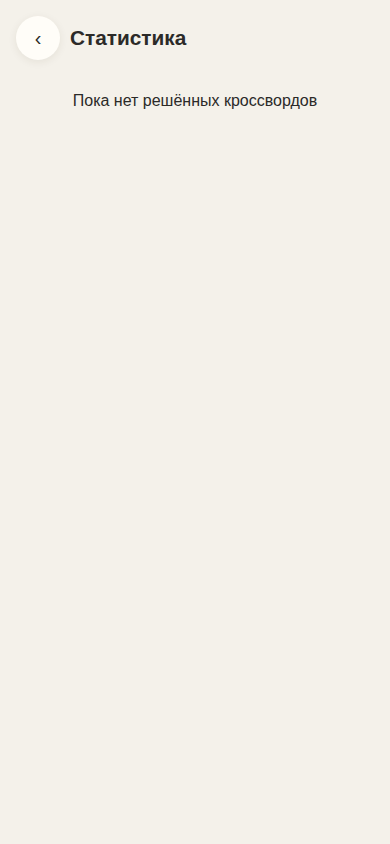
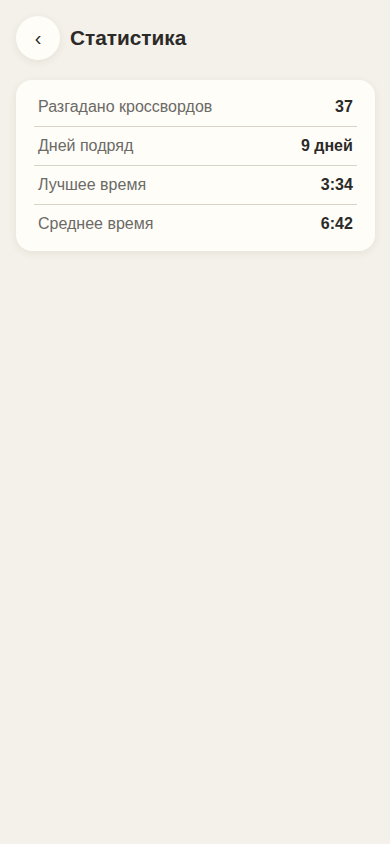
Материалы карточки: единое название, версия 1.1.0, живой скриншот статистики
Сверка полей консоли с реальным состоянием игры нашла расхождения:

- Название. CARD.md заявлял «Кроссворды — уникальные каждый раз», тогда как
  в поле Title гайда, в <title> страницы, на экране меню и — что важнее всего —
  ТЕКСТОМ НА ОБЛОЖКЕ стоит «Кроссворды». Площадка требует дословного совпадения
  названия во всех материалах, так что приписка привела бы к расхождению с
  графикой. Название приведено к «Кроссворды», в оба файла добавлено пояснение,
  почему уточнения сюда добавлять нельзя.
- Примечание в гайде утверждало, что названия нет ни на одной картинке. Это
  неверно: оно написано на обложке. Формулировка исправлена, заодно оговорено,
  что подзаголовок обложки — слоган, а не часть названия.
- Скриншот статистики выродился в пустой экран «Пока нет решённых кроссвордов»
  (генерировался в чистом профиле браузера). Перегенерирован с накопленными
  данными — так экран и выглядит у игрока.
- Версия поднята до 1.1.0 (набор изменений прошлой итерации), гайд синхронизирован.
- Заявленный вес сборки ~110 КБ обновлён до фактических ~175 КБ.
- Убрано устаревшее упоминание «english-версий» текстов в CARD.md — от
  английской версии отказались ещё раньше.
- Описания скриншотов дополнены новыми элементами интерфейса (счётчик слов,
  буква, открытая подсказкой, зачёркнутые отгаданные определения).

Claude-Session: https://claude.ai/code/session_016ab2bpeRLzr7HiPFMCcyki

Changed region(s): [[0.0923, 0.0924, 0.9231, 0.2773]]

diff --git a/store/YANDEX_SUBMISSION_GUIDE.md b/store/YANDEX_SUBMISSION_GUIDE.md
@@ -21,7 +21,7 @@
 |---|---|
 | `index.html` строго в корне архива | ✅ `vite.config.js` (`assetsDir: ''`) кладёт всё в корень `dist/` |
 | Имена файлов/папок без пробелов и кириллицы | ✅ хэшированные англ. имена бандлов |
-| Все файлы игры (распакованные) ≤ 100 МБ | ✅ бандл ~110 КБ (JS+CSS) |
+| Все файлы игры (распакованные) ≤ 100 МБ | ✅ вся сборка ~175 КБ (JS ~161 КБ + CSS ~12 КБ + HTML ~2 КБ) |
 | Рекомендуемый вес первой загрузки ≤ 10 МБ | ✅ с большим запасом |
 | Пути относительные (площадка раздаёт игру из подкаталога) | ✅ `base: './'` |
 
@@ -31,8 +31,8 @@
 
 Из документации: обязательны **Title, About the game, How to play, Version,
 Categories, Icon, Cover, Archive, Supported platforms, Orientation**. Ниже —
-готовые значения (тексты полностью совпадают с [`CARD.md`](CARD.md), где ещё и
-english-версии).
+готовые значения; те же тексты лежат в [`CARD.md`](CARD.md). Игра русскоязычная,
+англоязычных версий текстов нет и не планируется (см. раздел 6).
 
 | Поле в консоли | Значение (RU) |
 |---|---|
@@ -40,13 +40,17 @@ english-версии).
 | **Short description / Краткое описание** | Классические кроссворды, которые генерируются заново при каждой партии. Спокойно, без спешки и навязчивой рекламы. |
 | **About the game / Описание игры** | См. «Полное описание» в [`CARD.md`](CARD.md#полное-описание) — вступление + список возможностей. |
 | **How to play / Как играть** | Нажмите «Играть» — сложность выбирается случайно. Тапните клетку в сетке — снизу появится палитра на всё слово: буквы самого слова вперемешку с несколькими лишними. Определение к выделенному слову показано над сеткой, рядом — счётчик отгаданных слов; стрелками переключайте слова. Когда слово сходится, игра сама переходит к следующему; если слово вписано целиком, но неверно, об этом сказано в строке определения. Кнопка «Подсказка» (до 3 раз за партию) за просмотр рекламы открывает буквы в текущем слове — они сразу засчитываются и больше не меняются. |
-| **Version / Версия** | 1.0.0 (см. `package.json`) |
+| **Version / Версия** | 1.1.0 (см. `package.json` — держите поле в консоли синхронным с ним) |
 
 > Правило площадки: название игры должно **дословно совпадать** на всех
 > материалах — в самой игре, в архиве, на иконке/обложке/скриншотах (если там
-> есть текст с названием). У нас название нигде на графике не написано отдельно
-> текстом поверх — только в `<title>` и на экране меню внутри самой игры, так что
-> расхождений не возникает.
+> есть текст с названием). У нас оно написано текстом **на обложке**
+> (`store/assets/cover-800x470.png` — «КРОССВОРДЫ»), а также стоит в `<title>`
+> страницы и на экране меню внутри игры. Везде это одно и то же слово —
+> «Кроссворды». Поэтому в поле Title вводите ровно `Кроссворды`, без приписок:
+> любое уточнение вроде «— уникальные каждый раз» разойдётся с обложкой.
+> Подзаголовок с обложки («Новый кроссворд каждый раз») — не часть названия,
+> это слоган, он совпадает с подзаголовком на экране меню.
 
 Игра **только на русском** — заполняйте все текстовые поля по-русски и укажите
 единственный язык «русский» (см. раздел 6).
@@ -95,13 +99,13 @@ english-версии).
 | Файл | Что показывает |
 |---|---|
 | `01-menu-mobile.png` (390×844) | Главное меню, мобильный портрет |
-| `02-game-mobile-light.png` (390×844) | Игровой экран с открытой палитрой букв, светлая тема |
+| `02-game-mobile-light.png` (390×844) | Игровой экран: палитра букв на всё слово, счётчик отгаданных слов, буква, открытая подсказкой; светлая тема |
 | `03-game-mobile-dark.png` (390×844) | То же, тёмная тема |
 | `04-results-mobile.png` (390×844) | Экран победы |
-| `05-stats-mobile.png` (390×844) | Личная статистика |
+| `05-stats-mobile.png` (390×844) | Личная статистика (экран показан с накопленными данными, а не пустым) |
 | `06-game-mobile-landscape.png` (844×390) | Игра в альбомной ориентации на телефоне (компактный режим) |
 | `07-menu-desktop.png` (1440×900) | Меню на широком экране |
-| `08-game-desktop-light.png` (1440×900) | Игра на десктопе: сетка + список определений сбоку, светлая тема |
+| `08-game-desktop-light.png` (1440×900) | Игра на десктопе: сетка + список определений сбоку (отгаданные зачёркнуты), светлая тема |
 | `09-game-desktop-dark.png` (1440×900) | То же, тёмная тема |
 
 **Рекомендация для слота «5 скриншотов» в консоли** (если разрешено больше —

diff --git a/store/CARD.md b/store/CARD.md
@@ -6,7 +6,13 @@
 
 ## Название
 
-Кроссворды — уникальные каждый раз
+Кроссворды
+
+> Ровно это слово должно стоять в поле Title консоли. Название обязано
+> **дословно совпадать** во всех материалах, а оно написано текстом на обложке
+> (`assets/cover-800x470.png`), в `<title>` страницы и на экране меню внутри
+> игры. Любая приписка вроде «— уникальные каждый раз» здесь создаст
+> расхождение с графикой; таким формулировкам место в кратком описании.
 
 ## Короткое описание
 
